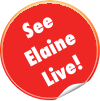
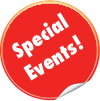
v2.94
added dates for IH Workshop, added button with special event text and
speaking engagements webpage

diff --git a/index.htm b/index.htm
@@ -72,7 +72,7 @@
 			  <p><em><blockquote><script>
 document.write(getQuotes());
 </script></blockquote></em></p>
-				<p><strong>About Elaine</strong><br /></p>
+				<p><a href="speaking_engagements.htm"><img src="new_sticker_small.png" onMouseOver="this.src='new_sticker_small_mouseover.png'" onMouseOut="this.src='new_sticker_small.png'"></a><strong>About Elaine</strong><br /></p>
 <p><strong>Elaine Voci, Ph.D.</strong> is a recognized Life Coach and a certified Forgiveness Coach, an experienced workshop facilitator, and author of three inspirational books.  She holds advanced degrees in Behavioral Science, Rehabilitation Counseling and Human Resource Management and is a graduate of the Indianapolis Gestalt Institute.</p><p>
 Elaine maintains a private life coaching practice in Carmel, Indiana, and works with individuals and groups; she specializes in career, life, and forgiveness coaching and writes a blog linked to her website, ElaineVoci.com.  If you seek to know yourself better, to heal painful life experiences, and or to reinvent yourself in order to find a new career,  coaching with Elaine can be beneficial.</p><p>
 Elaine’s workshops are also a source of inspiration, new energy and enjoyment.  Among the most highly attended of her workshops are:  Forgiving Yourself and Others, the Intent Heals Journal ™, Managing Transitions, Creating the Work You Love, and Caring for the Caregiver. Elaine Voci can be reached at ElaineVoci@ElaineVoci.com and by phone at (317) 730-5481.</p><p><strong>

diff --git a/speaking_engagements.htm b/speaking_engagements.htm
@@ -71,7 +71,7 @@
 			<div id="content-right">
 			  <p>On Tuesday November 27, 2012 Elaine will be speaking at The Voice of Aging Conference on &quot;Getting Your Life Back: A Mindful Approach to Your Caregiving Journey&quot;. The Voice on Aging Conference is sponsored by Applegate Elder Law. For more information, go to<a href="http://www.applegate-elderlaw.com/voice-of-aging-conference"> http://www.applegate-elderlaw.com/voice-of-aging-conference</a>.</p>                           
 			  
-<p>If you'd like more information about Elaine<a href="12-VociCoachingBroch-forWeb.pdf">click here</a> to print Elaine's Life Coaching brochure. <a href="12-VociCoachingBroch-forWeb.pdf"></a></p></div>
+<p>If you'd like more information about Elaine <a href="12-VociCoachingBroch-forWeb.pdf">click here</a> to print Elaine's Life Coaching brochure. <a href="12-VociCoachingBroch-forWeb.pdf"></a></p></div>
 			<div id="footer">
 				<p>
 					Copyright © Elaine Voci Life Coaching, LLC, all rights reserved.

diff --git a/IHworkshops1.htm b/IHworkshops1.htm
@@ -81,6 +81,13 @@
         575 South Main Street<br />
         Zionsville, IN<br /> 
         </h4>
+        <h3>When: Saturday March 1, 2013<br/>
+        10:00 am - 12:00 pm
+        </h3>
+        <h4>Where: The Retreat Campus<br />
+        8700 Island Pond Rd.<br />
+        Quincy, IN 47456<br /> 
+        </h4>
         <strong>
         <h5>$35 Registration cost includes a complimentary Intent Heals Journal and silk bag<br />
                  <a href="paypal.html">Click here to register online</a>, call Elaine at (317) 730 - 5481 or email her at <a href="mailto:elaine@elainevoci.com">elaine@elainevoci.com</a></h5>
